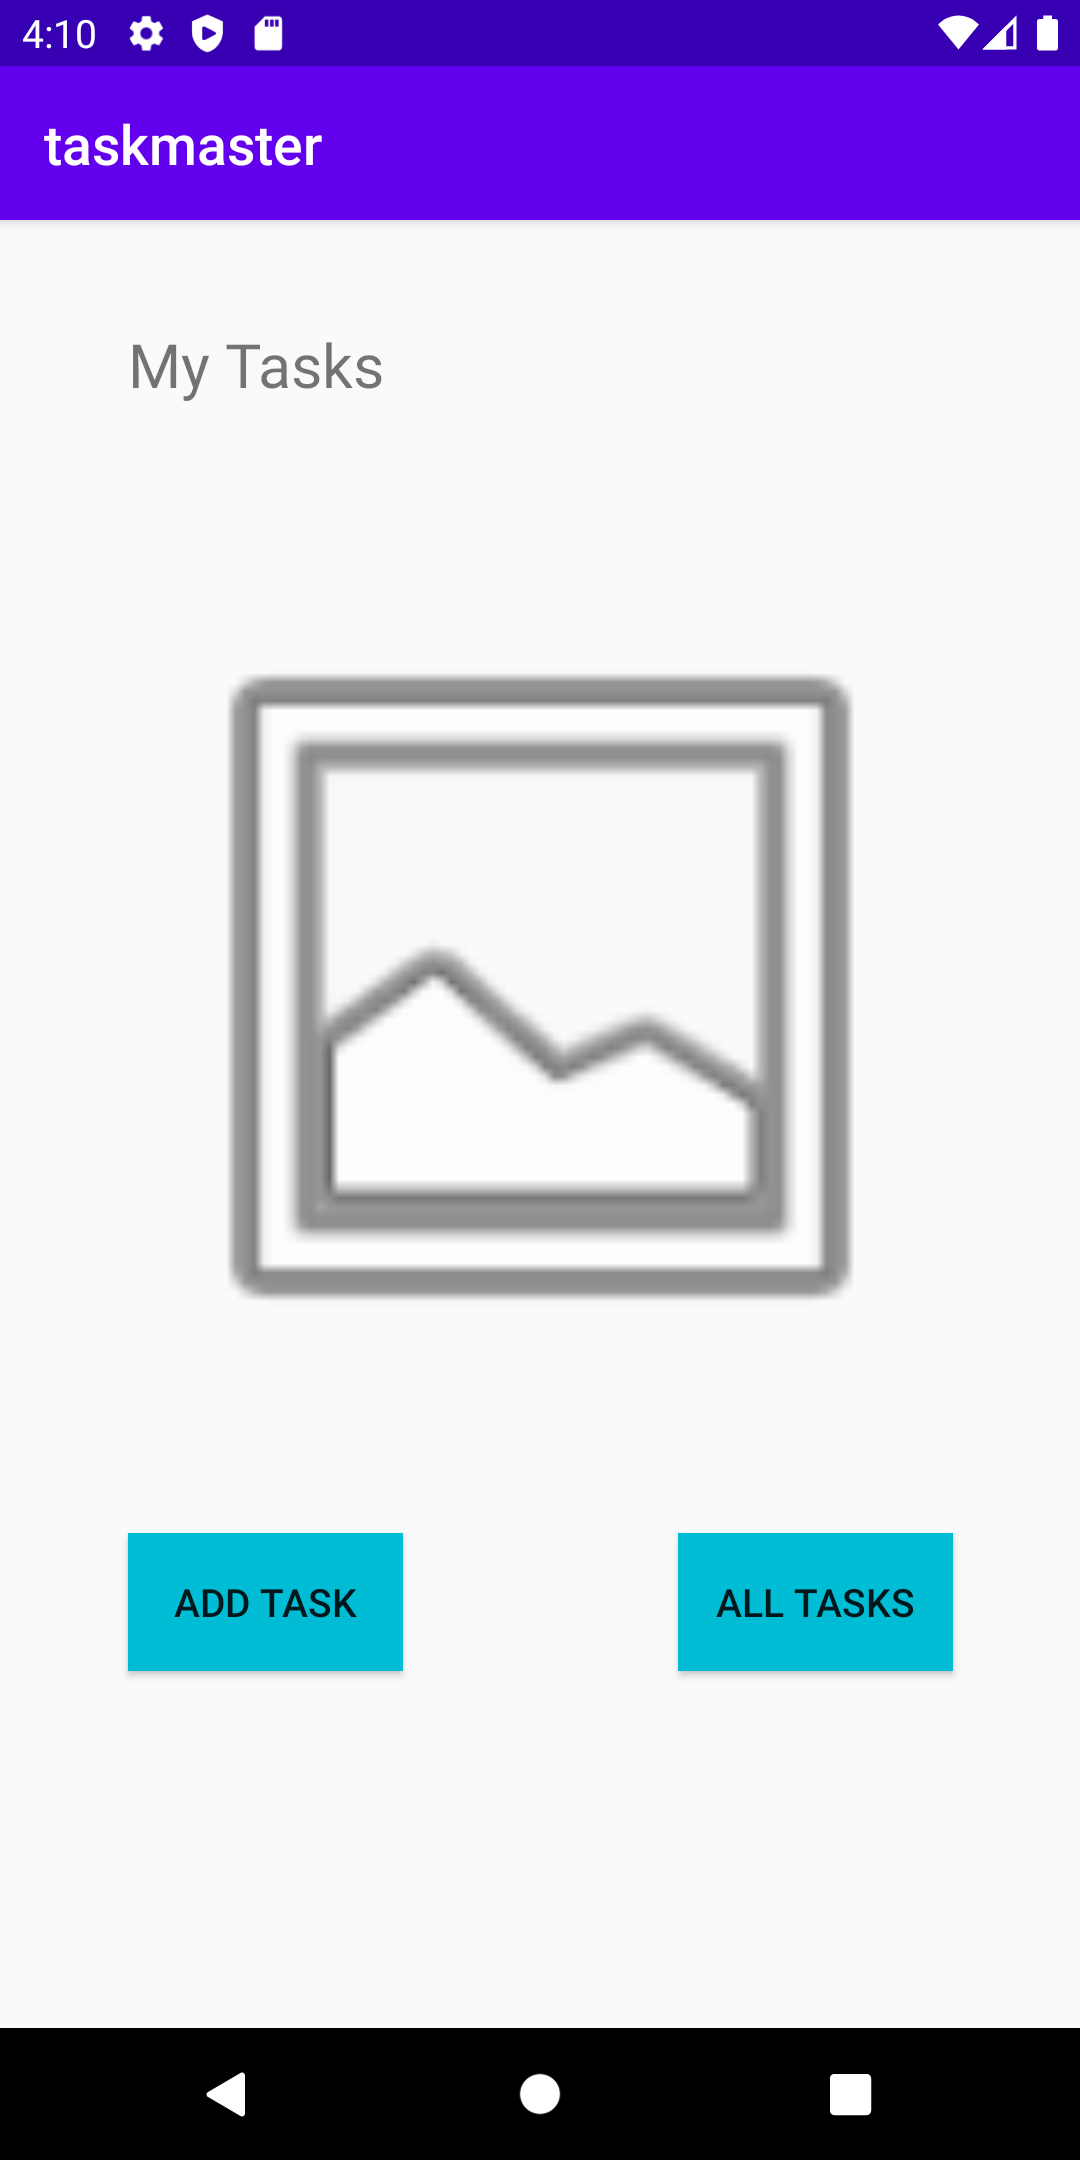
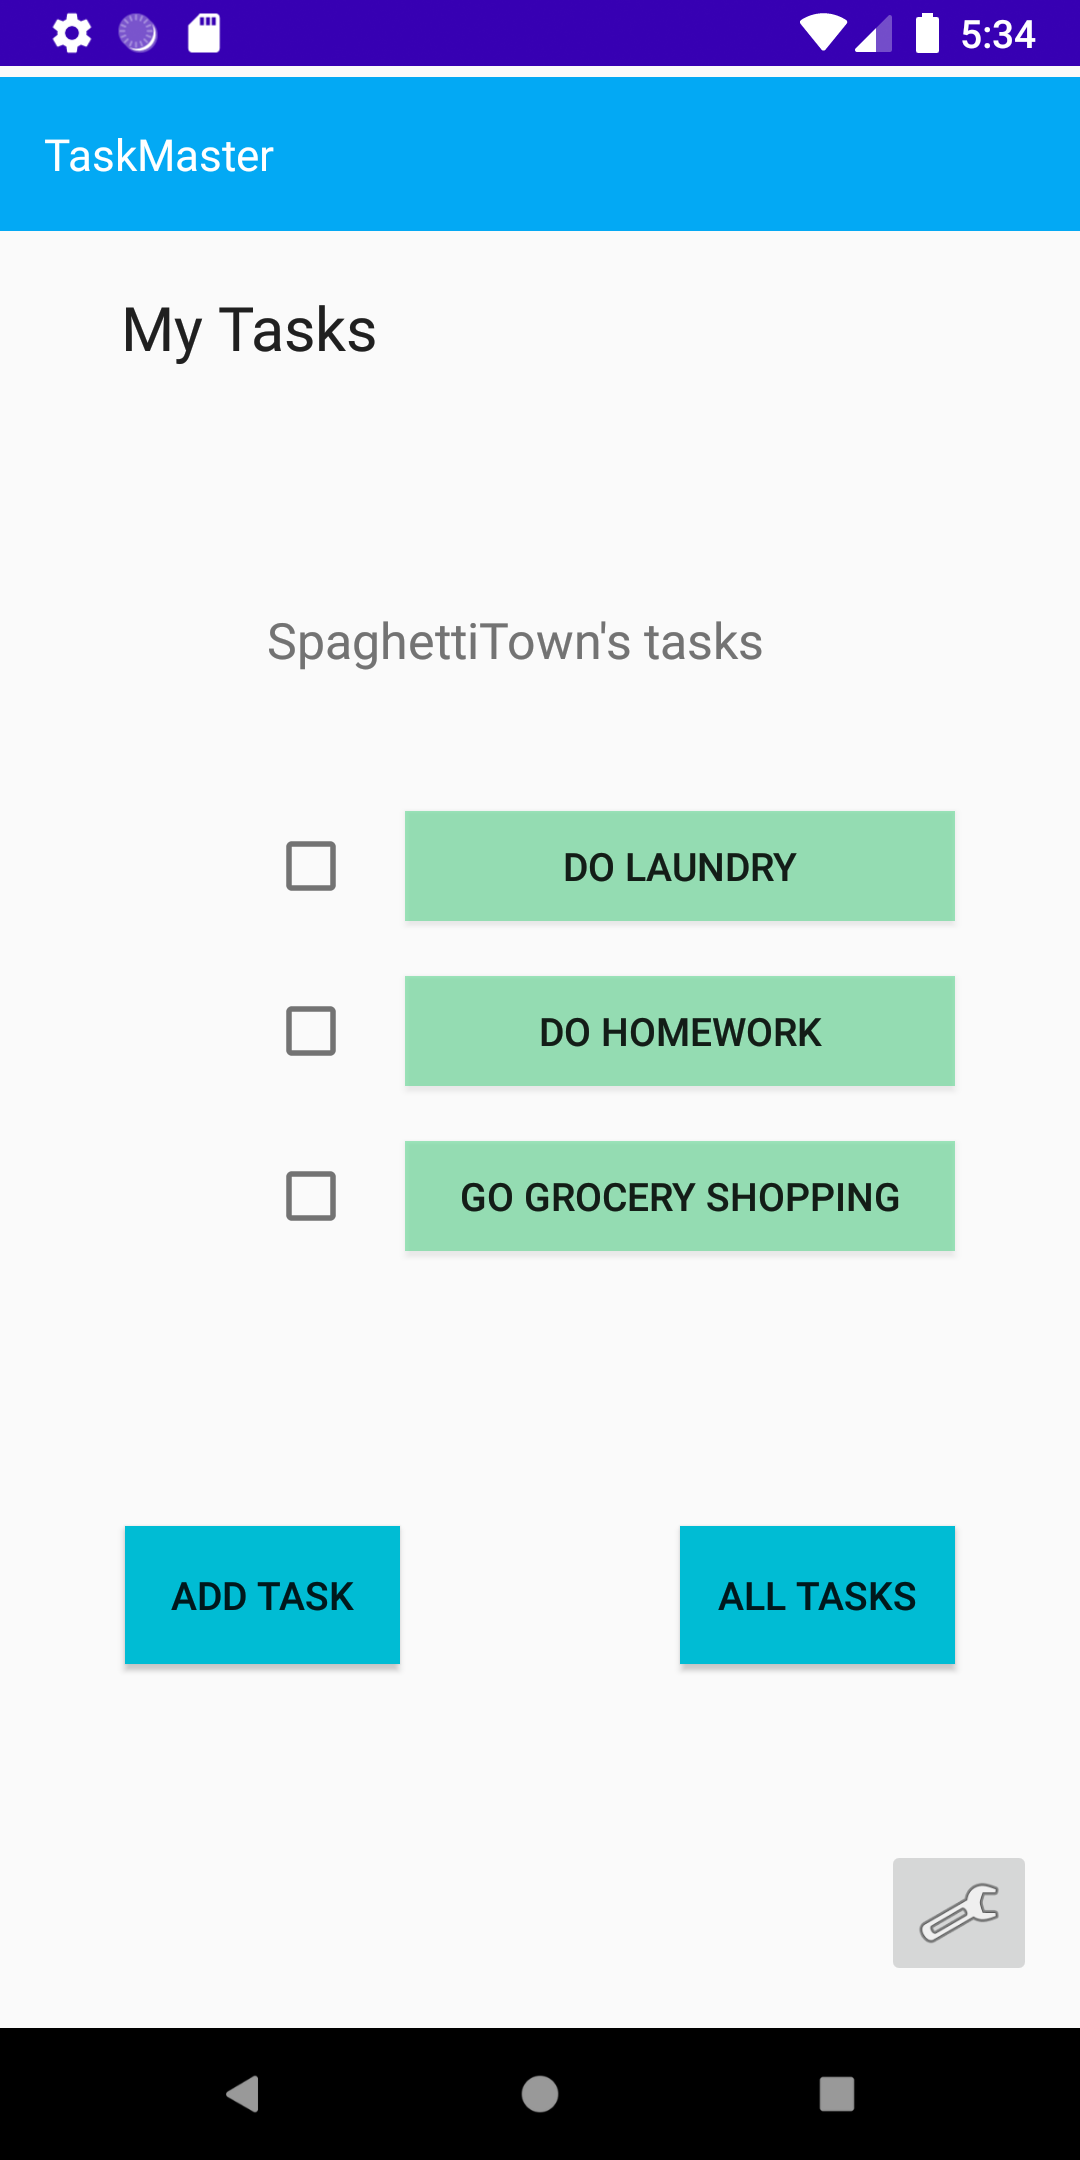
updated readme & formatted screenshots

diff --git a/README.md b/README.md
@@ -17,13 +17,18 @@ This app will allow a user to create and track tasks
 ### Day 2 - Settings Page, Detail Page
 - Added a settings button to home page that takes user to their settings page
 - Settings page allows user to create / save a username
+- Username is persistent across all pages
 - Created Task detail page
 - Homepage has 3 buttons hardcoded w/ a task
+- Buttons on homepage navigates to "Task Detail" page with title of task
 
 
 ### Screenshots
 #### Day1 Build
-![home](screenshots/main-page.png)
-![add](screenshots/addtask.png)
-![all](screenshots/all-tasks.png)
+<img src="screenshots/main-page.png" alt="home" width="300">
+<img src="screenshots/username.png" alt="username" width="300">
+<img src="screenshots/taskDetail.png" alt="detail" width="300">
+<img src="screenshots/addtask.png" alt="add" width="300">
+<img src="screenshots/all-tasks.png" alt="alltasks" width="300">
+
 
